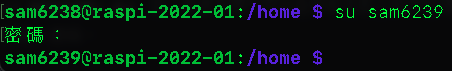
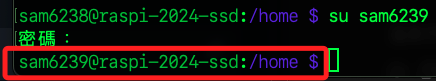
0624

diff --git a/D01_樹莓派+Linux/1_樹莓派基本操作/09_建立用戶.md b/D01_樹莓派+Linux/1_樹莓派基本操作/09_建立用戶.md
@@ -60,17 +60,19 @@
 
 <br>
 
-7. 切換使用者。
+7. 使用指令 `su` 可切換使用者。
 
     ```bash
     su <使用者名稱>
     ```
 
+    _可觀察到命令行前綴會標示新的使用者帳號_
+
     ![](images/img_505.png)
 
 <br>
 
-7. 將指定的使用者 sam6239 加入 root 群組。
+8. 將指定的使用者 sam6239 加入 root 群組。
     
     ```bash
     sudo usermod -a -G sudo sam6239
@@ -78,7 +80,9 @@
 
 <br>
 
-8. 指令參數說明。
+## 指令參數說明。
+
+1. 彙整以上指令如下。
 
     | 指令     | 說明                                       |
     |----------|--------------------------------------------|
